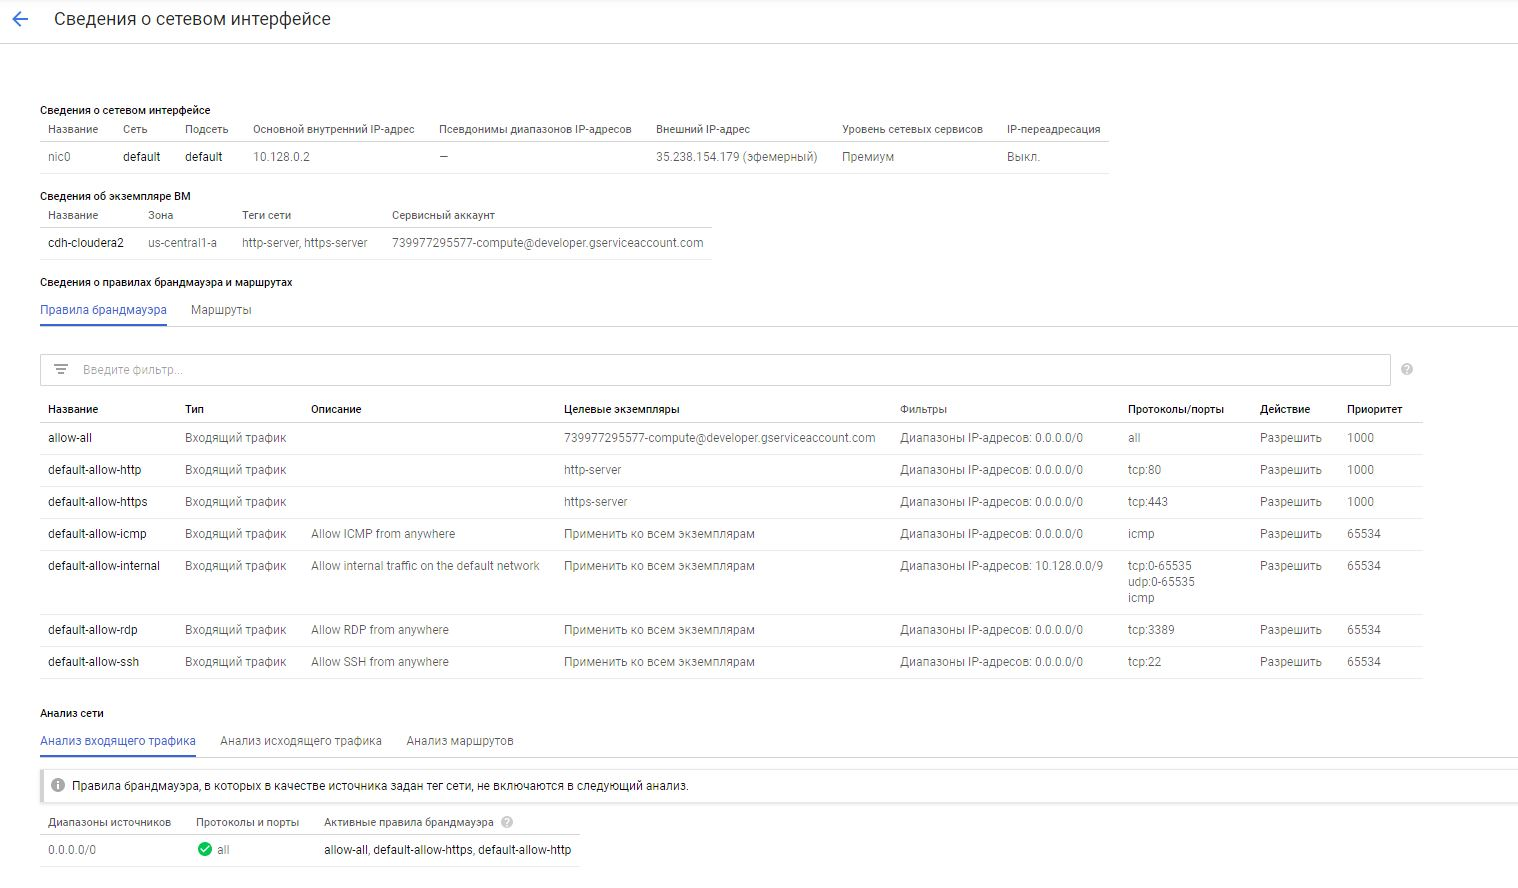
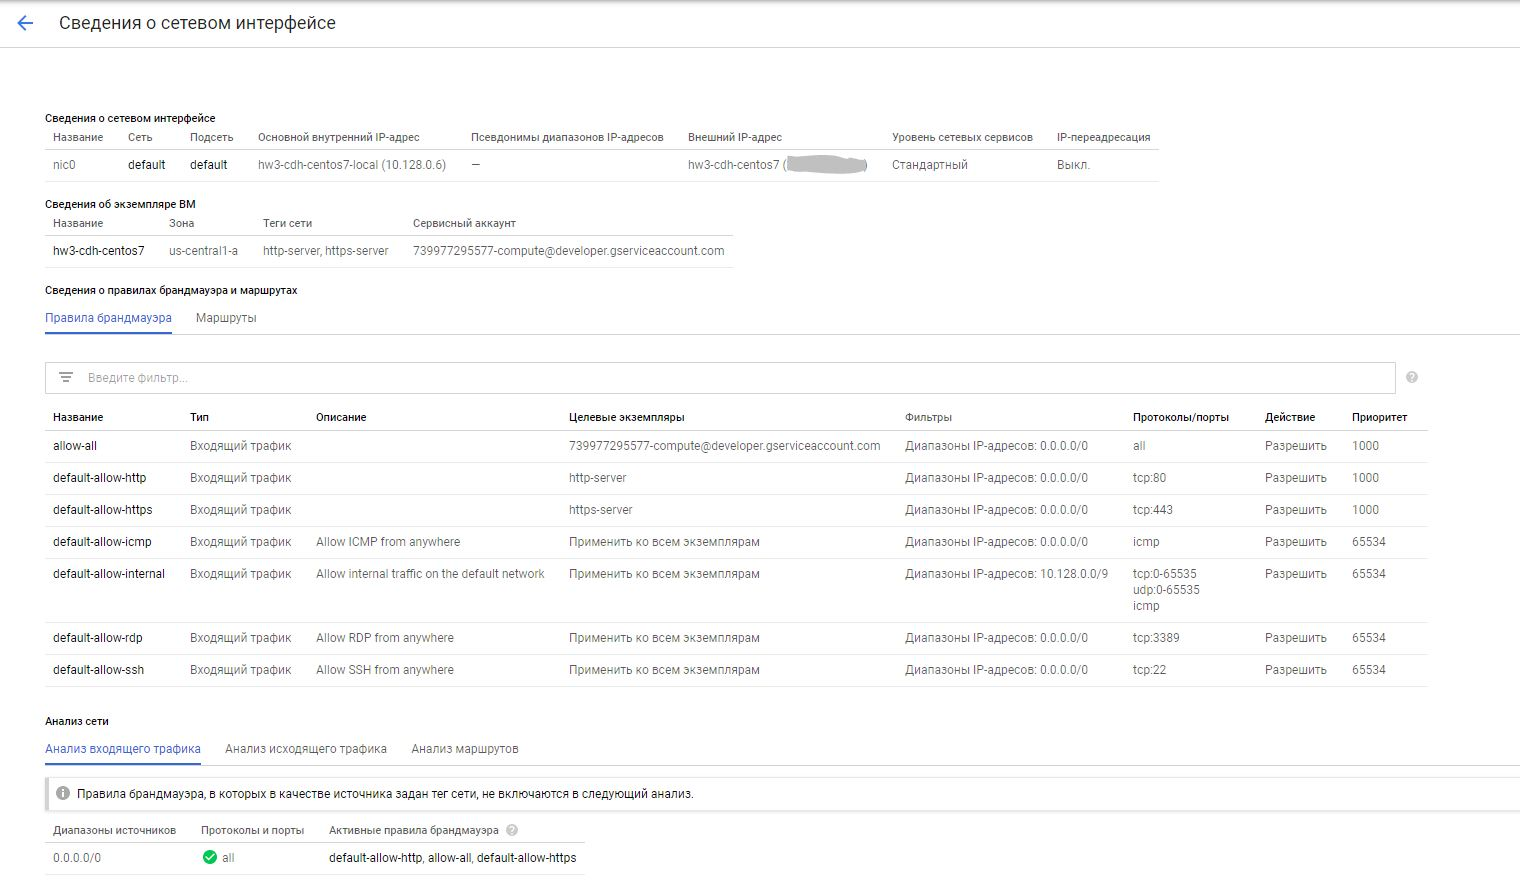
spec host step

diff --git a/HW3_Lesson3/readme.md b/HW3_Lesson3/readme.md
@@ -25,14 +25,14 @@ https://docs.google.com/document/d/1iLTiN7D1kM4njOEbF_f_YGT7Jj7OnvT_WjbU3rX6Hzw/
 ### Начинаем знакомиться с требованиями 
 https://docs.cloudera.com/documentation/enterprise/6/release-notes/topics/rg_requirements_supported_versions.html
 
-И понимаем, что нам вполне подойдет машина и CentOS7:
+И понимаем, что нам вполне подойдет машина с CentOS7:
 https://docs.cloudera.com/documentation/enterprise/6/release-notes/topics/rg_hardware_requirements.html#concept_vvv_cxt_gbb
 https://docs.cloudera.com/documentation/enterprise/6/release-notes/topics/rg_os_requirements.html#os_requirements
 
 Да и наша VPSка тоже вполне подходит: https://docs.cloudera.com/documentation/enterprise/6/release-notes/topics/rg_database_requirements.html#cdh_cm_supported_db
 
 ### Поднимаем\ настраиваем виртуалку на GCP в соответствии с требованиями
-Настройки для виртуалки используем из инструкции к ДЗ. Для простоты будем использовать браузерную консоль. Во всяком случае до тех пор, пока нам этого будет достаточно. 
+Создаем вируртуалу на GCP с CentOS7, берем 4 проца, 15 ОЗУ + 50гб Диска
 
 ![OS Installed](https://github.com/adm-8/otus-de-andreevds-2019-11/raw/master/HW3_Lesson3/pics/OS_Intalled.jpg)
 
@@ -43,10 +43,7 @@ Only 64 bit JDKs are supported. Cloudera Manager 6 and CDH 6 do not support JDK 
 
 OpenJDK 8 is supported in Cloudera Enterprise 6.1.0 and higher, as well as Cloudera Enterprise 5.16.1 and higher. For installation and migration instructions, see Upgrading the JDK.
 ```
-
-Идём и устанавливаем всё необходимое по [мануалу](https://docs.cloudera.com/documentation/enterprise/upgrade/topics/ug_jdk8.html) :
-
-
+Всё необходимо по JAVA мы будем ставить на втором шаге
 
 ### Требования безопасности и сети
 https://docs.cloudera.com/documentation/enterprise/6/release-notes/topics/rg_network_and_security_requirements.html#concept_o3g_kvl_rcb
@@ -80,24 +77,21 @@ cat /proc/sys/kernel/random/entropy_avail
 
 ## Установка Cloudera Manager, CDH, and Managed Services
 ### Шаг 1. Конфигурация репозитория
-https://docs.cloudera.com/documentation/enterprise/6/6.3/topics/install_cm_cdh.html
-
+https://docs.cloudera.com/documentation/enterprise/6/6.3/topics/configure_cm_repo.html
 ```
-sudo yum update
-
 sudo yum install wget
 
-cd /etc/apt/sources.list.d/
-sudo wget https://archive.cloudera.com/cm6/6.3.1/ubuntu1804/apt/cloudera-manager.list
+sudo wget https://archive.cloudera.com/cm6/6.3.1/redhat7/yum/cloudera-manager.repo -P /etc/yum.repos.d/
 
-cd ~
-sudo wget https://archive.cloudera.com/cm6/6.3.0/ubuntu1604/apt/archive.key
-sudo apt-key add archive.key
+sudo rpm --import https://archive.cloudera.com/cm6/6.3.0/redhat7/yum/RPM-GPG-KEY-cloudera
 
 sudo yum update
+
 ```
-### Шаг 2. Установка JDK
+
+### Шаг 2. Установка  Oracle JDK 
 https://docs.cloudera.com/documentation/enterprise/6/6.3/topics/cdh_ig_jdk_installation.html#topic_29
+
 ```
 sudo yum install oracle-j2sdk1.8
 
@@ -105,17 +99,22 @@ sudo yum install oracle-j2sdk1.8
 
 
 ### Шаг 3. Установка Cloudera Manager Server
+https://docs.cloudera.com/documentation/enterprise/6/6.3/topics/install_cm_server.html
 ```
 sudo yum install cloudera-manager-daemons cloudera-manager-agent cloudera-manager-server
+
 ```
 
 ### Шаг 4. Установка баз данных
 Т.к. в моем случае уже есть VPS с PostgreSQL, использую https://docs.cloudera.com/documentation/enterprise/6/6.3/topics/cm_ig_extrnl_pstgrs.html
 
 #### Installing the psycopg2 Python Package
+https://docs.cloudera.com/documentation/enterprise/6/6.3/topics/cm_ig_extrnl_pstgrs.html#cmig_topic_5_6
 ```
 sudo yum install python-pip
+
 sudo pip install psycopg2==2.7.5 --ignore-installed
+
 ```
 
 #### Configuring and Starting the PostgreSQL Server
@@ -183,7 +182,19 @@ ALTER DATABASE oozie SET standard_conforming_strings=off;
 
 ```
 
-*просто на всякий случай оставлю это здесь, мало ли что*
+*просто на всякий случай оставлю это здесь, мало ли что (мне пригодилось т.к. первый раз накатывал на Ubuntu18 и у меня не взлетело. От греха подальше сносил базы*
+```
+DROP DATABASE scm;
+DROP DATABASE amon;
+DROP DATABASE rman;
+DROP DATABASE hue;
+DROP DATABASE metastore;
+DROP DATABASE sentry;
+DROP DATABASE nav;
+DROP DATABASE navms; 
+DROP DATABASE oozie;
+
+```
 
 ### Шаг 5. Настройка Cloudera Manager Database
 
@@ -222,53 +233,13 @@ http://[IP]:7180
 Даем имя кластеру. По мне так "HW3_Cluster" будет вполне себе ок.
 
 ##### Specify Hosts
+======================
 
+А вот тут то я и поплыл. Т.к. о SHH ключиках я заранее не позаботился. Да и как их создавать \ тестировать в GCP - поянтия не имею. Долго пытался  
 
 
 
 ======================
 
 Необходимо указать hostname (FQDN). В нешем случае "localhost", видимо подойдет. оставляем порт SHH = 22 и жмахаем Search. В моем случае появилась одна запись, как я и ожидал.
-
-##### Select Repository
-**Repository Location** - автоматом проставилось в значение  "Custom Repository" с адресом "http://archive.cloudera.com/cm6/6.3.1". Попробовал открыть ссыль, там что-то лежит. Думаю, вполне себе устроит.
-
-**Install Method** - в доукментации сказано, что рекомендуется использовать "Use Packages". Мы люди исполнительные, выбираем этот пункт.
-
-**CDH Version** - "CDH 6" - мой выбор. 
-
-**CDH Minor Version** - Я выбрал "CDH 6.3.2" 
-*в предыдущем пунтке была предупреждалка: "Versions of CDH that are too new for this version of Cloudera Manager (6.3.1) will not be shown.", посмотрим что из этого выйдет =)*
-
-#####  Accept JDK License
-В обязательном порядке читаем лицензионное соглашение. (Нет).
-Т.к. мы поставили JDK в одном из пунктов ранее, НЕ ставим галку и идём дальше.
-
-
-### Созадем пользователя для следующего шага.
-```
-sudo adduser cloudera
-
-``` 
-Вбиваем пароль cloudera.
-Добавляем пользователя в группу sudo
-
-```
-sudo usermod -aG sudo cloudera
-
-``` 
-
-ssh-keygen -t rsa -f ~/.ssh/cloudera_user_ssh_key -C cloudera
-
-
-
-##### Enter Login Credentials
-А вот тут то я и пожалел, что использовал web-console GCP... 
-andreevds_de2019
-
-
-/home/cloudera/.ssh/cloudera_user_ssh_key.pub
-
-
-
 
